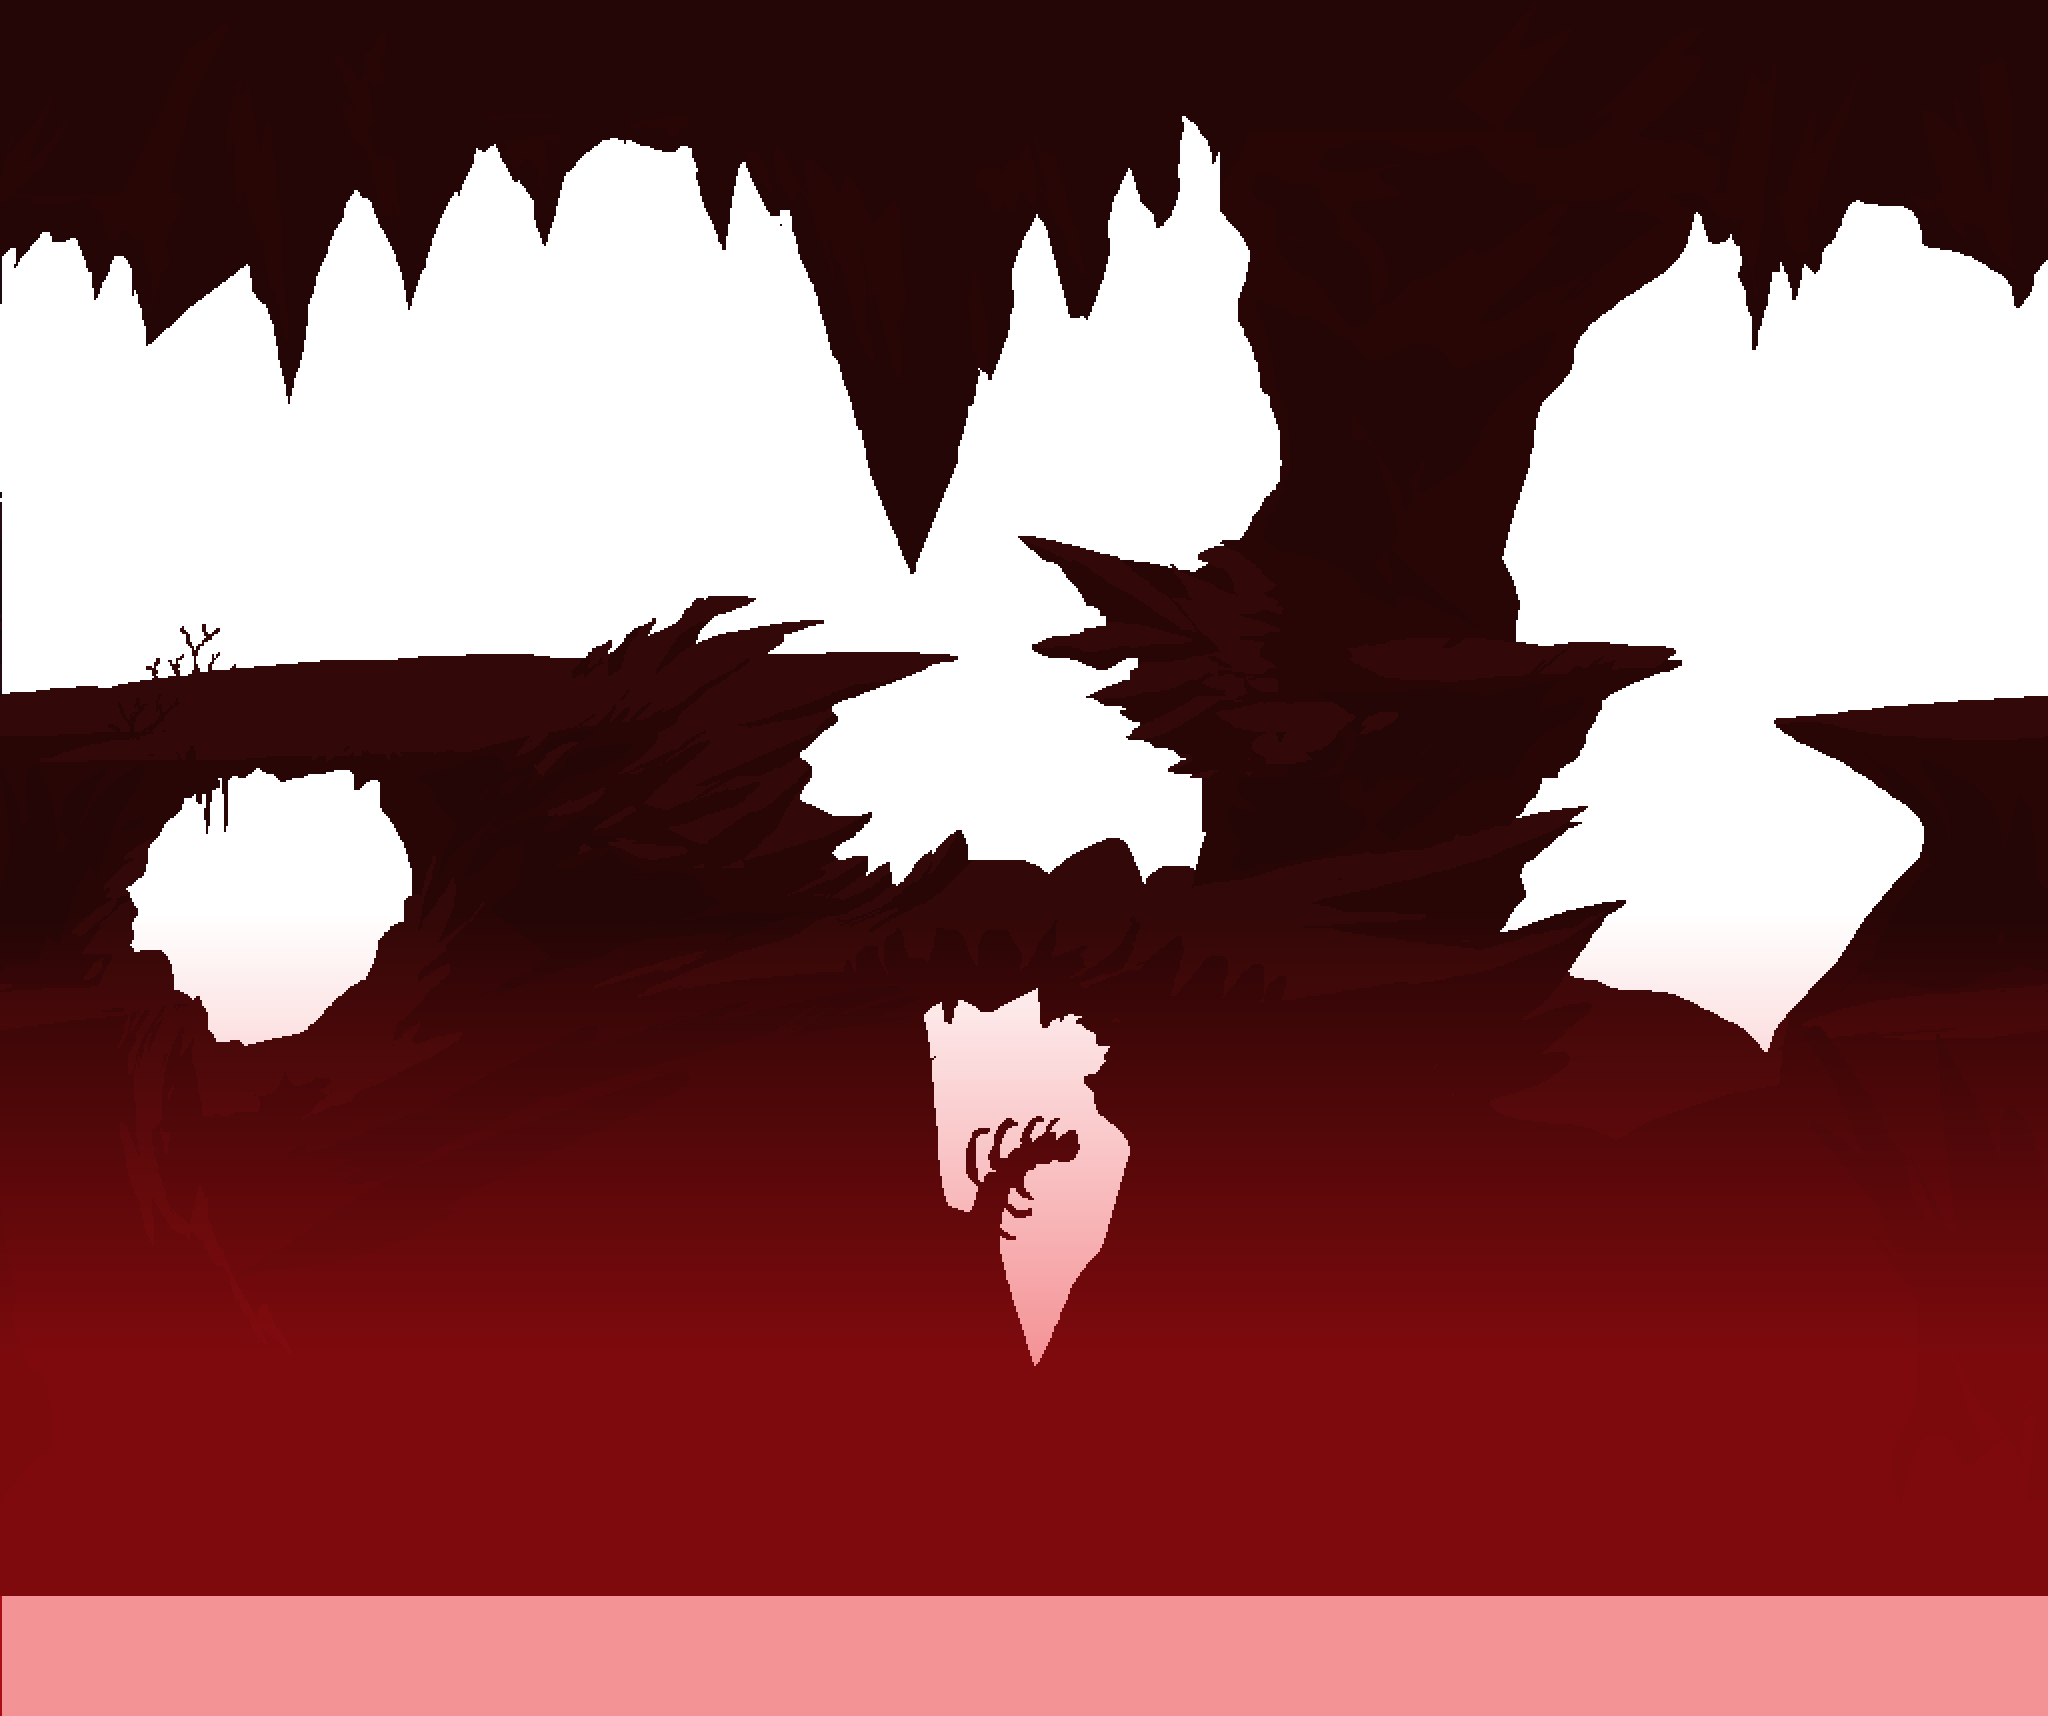
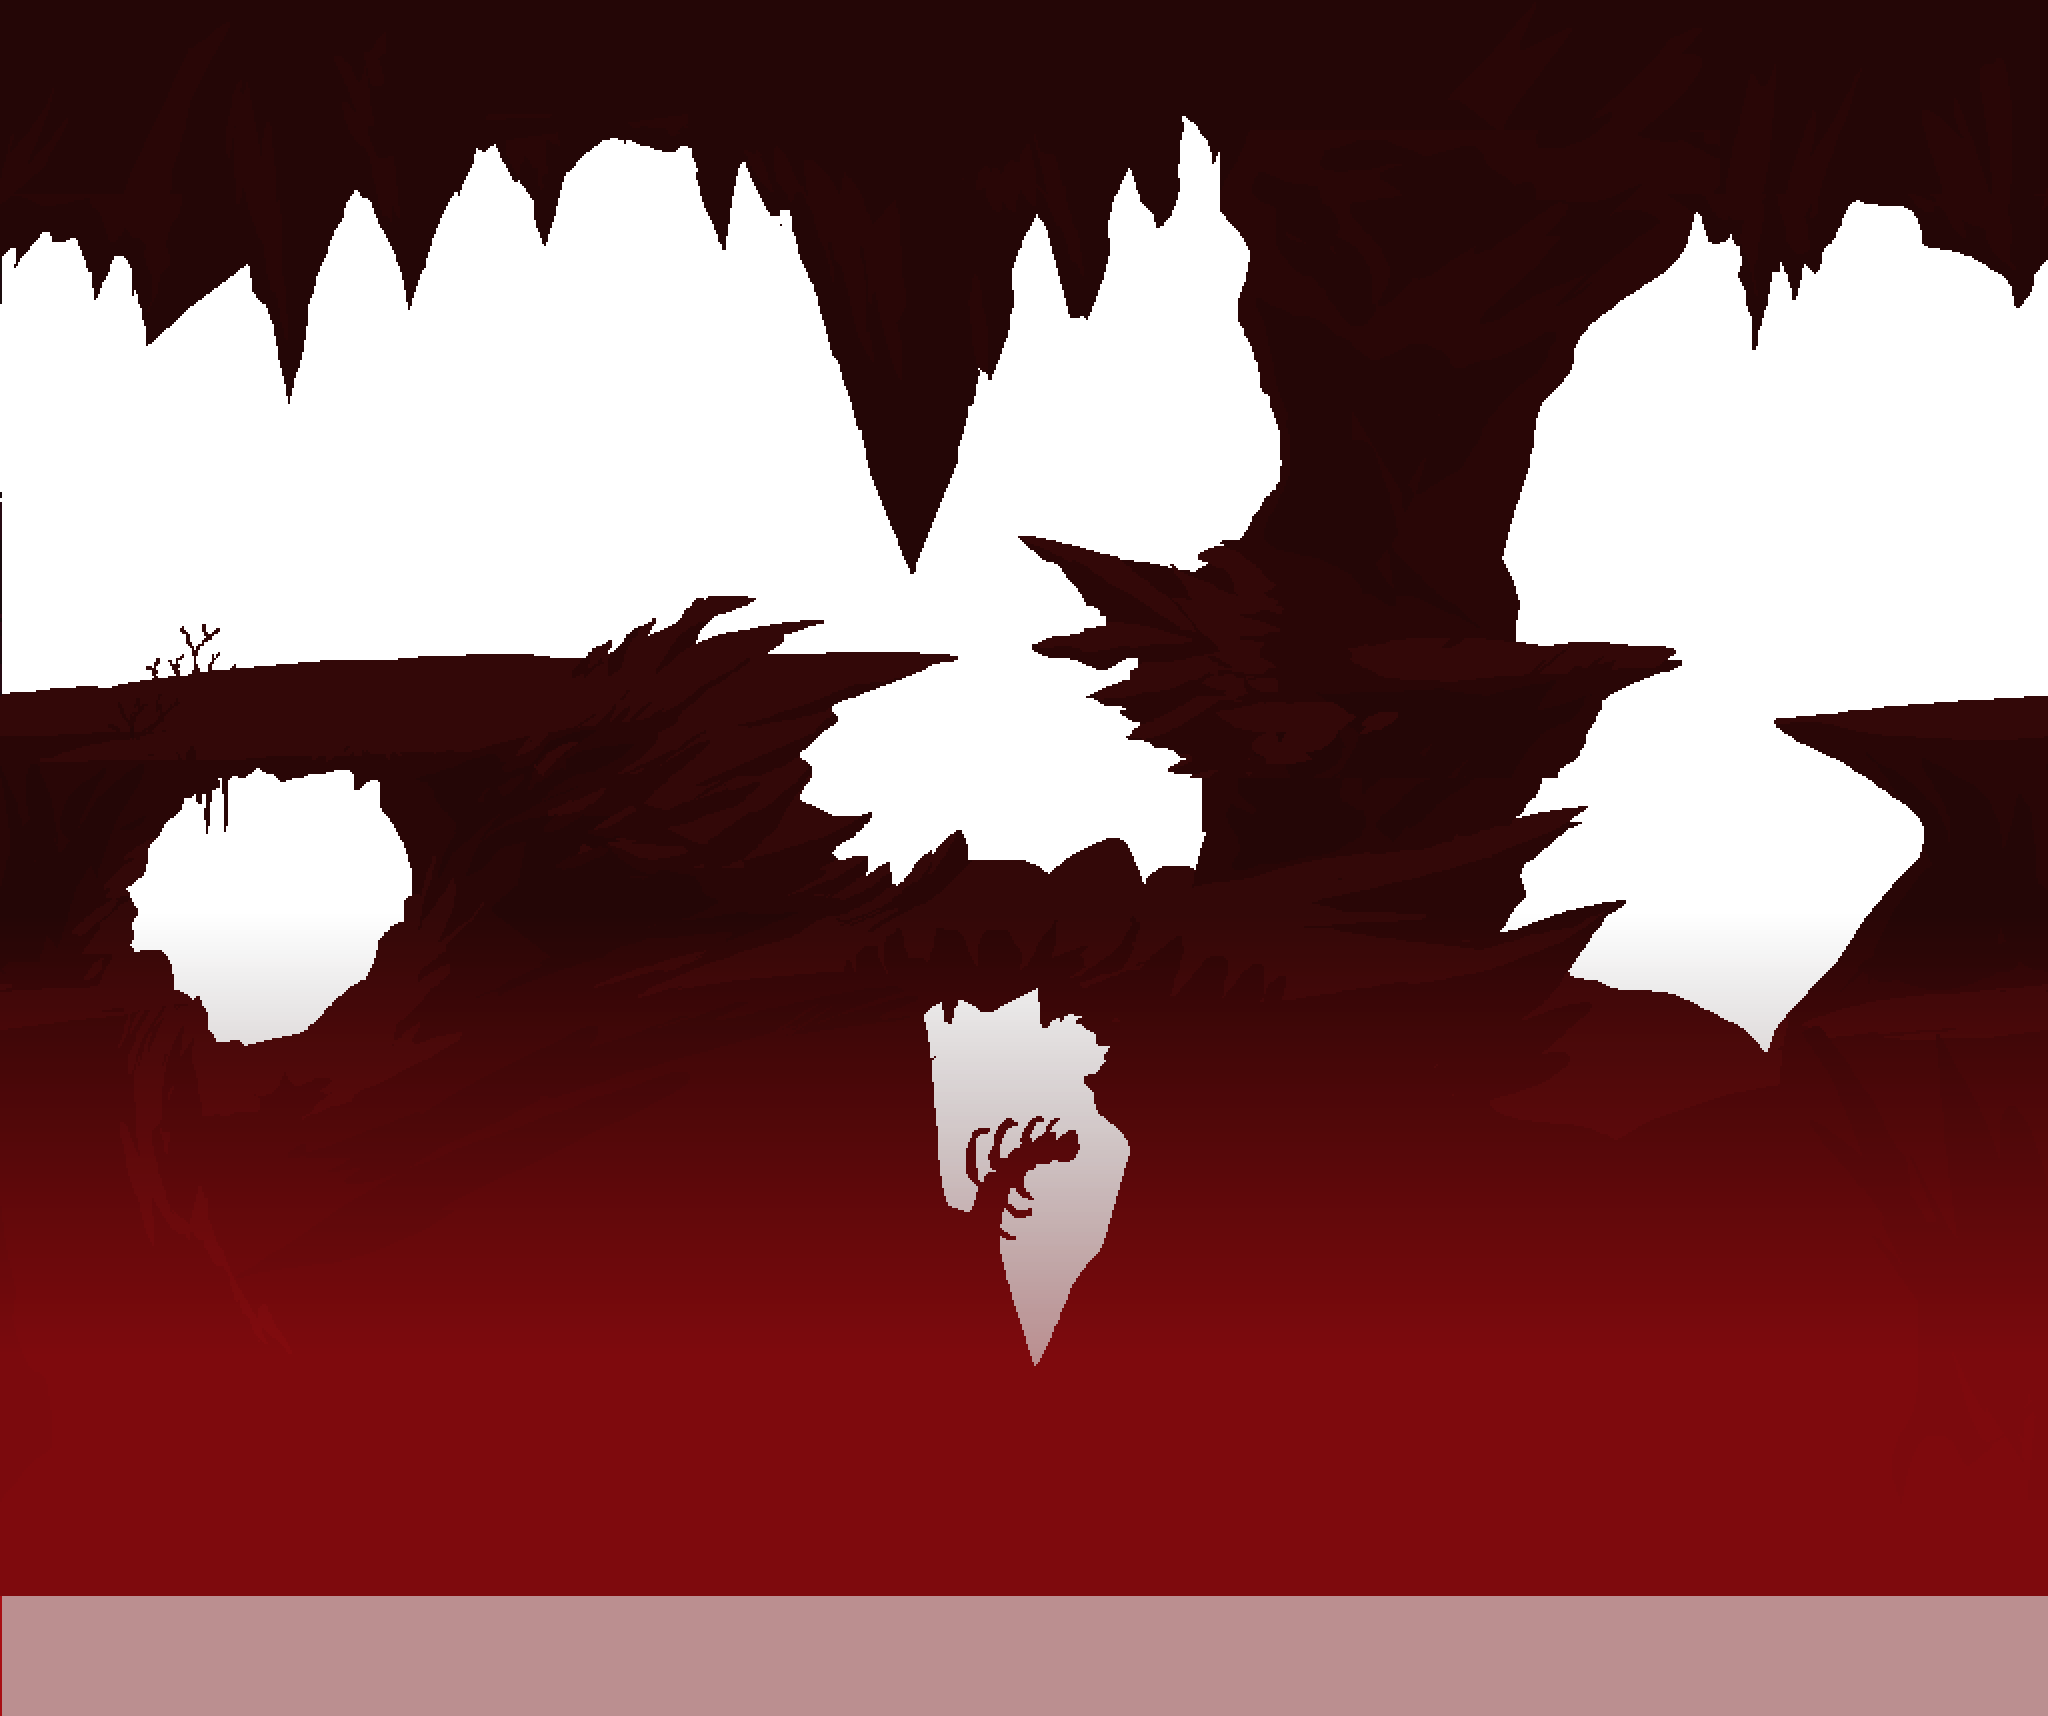
feat: premultiply alpha on crimson bg

diff --git a/src/EvilExpansionMod/Common/World/_Backgrounds/UnderworldCrimsonBGSystem.cs b/src/EvilExpansionMod/Common/World/_Backgrounds/UnderworldCrimsonBGSystem.cs
@@ -181,12 +181,12 @@ public class UnderworldCrimsonBGSystem : ModSystem {
                 zero.Y -= 10f;
                 break;
             case 2:
-                zero.Y += 280;
+                zero.Y -= 20;
                 zero.Y -= heightChange * 0.5f;
                 num8 = newScaleFactorForLayer2;
                 break;
             case 3:
-                zero.Y += 10f;
+                zero.Y += 90f;
                 break;
         }
 
@@ -230,6 +230,9 @@ public class UnderworldCrimsonBGSystem : ModSystem {
         for(int i = startTileX - 2; i <= startTileX + 4 + numTilesToDraw; i++) {
             Color drawColor = Color.White * _fadeOpacity;
         
+            Main.spriteBatch.End(out var ss);
+            Main.spriteBatch.Begin(ss with { BlendState = BlendState.AlphaBlend });
+            
             Main.spriteBatch.Draw(
                 value,
                 drawPos,
@@ -241,6 +244,8 @@ public class UnderworldCrimsonBGSystem : ModSystem {
                 SpriteEffects.None,
                 0f
             );
+            
+            Main.spriteBatch.Restart(ss);
 
             if(isGradient || textureArrayIndex == 1) {
                 int bottomY = (int)(drawPos.Y + value2.Height * num8);
